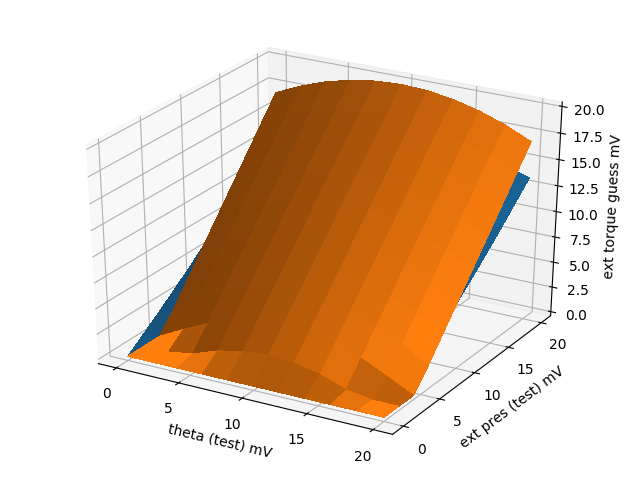
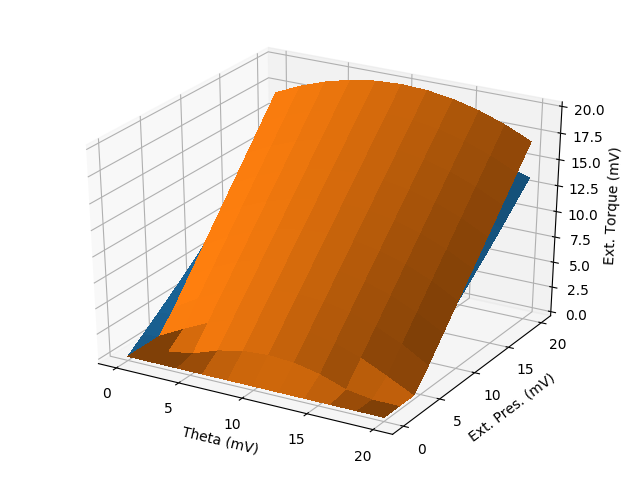
Rerun visualizations to properly/consistently resize images

diff --git a/writeup/chapters/results.tex b/writeup/chapters/results.tex
@@ -129,21 +129,21 @@ Test results are generated based on data tools in \github{PuppyNeuronPlayground}
 
 \begin{figure}
 \centering
-\includegraphics[height=2.25in]{results/New_T2A}
+\includegraphics[height=3.5in]{results/New_T2A}
 \caption{Testing conversion from torque to acceleration with varying link inertia. Mean error is 0.6 mV}
 \label{fig:TestAccelInertia}
 \end{figure}
 
 \begin{figure}
 \centering
-\includegraphics[height=2.25in]{results/New_T2A_2} % TODO(buckbaskin): complete this thought with a picture and data
+\includegraphics[height=3.5in]{results/New_T2A_2} % TODO(buckbaskin): complete this thought with a picture and data
 \caption{Testing conversion from torque to acceleration, with varying joint damping. Mean error is 0.7 mV}
 \label{fig:TestAccelDamping}
 \end{figure}
 
 \begin{figure}
 \centering
-\includegraphics[height=2.25in]{results/New_P2T} % TODO(buckbaskin): complete this thought with a picture and data
+\includegraphics[height=3.5in]{results/New_P2T} % TODO(buckbaskin): complete this thought with a picture and data
 \caption{Testing conversion from actuator pressure to torque. Mean error is 1.4 mV}
 \label{fig:TestP2T}
 \end{figure}
@@ -152,21 +152,21 @@ Test results are generated based on data tools in \github{PuppyNeuronPlayground}
 
 \begin{figure}
 \centering
-\includegraphics[height=2.25in]{results/New_TO}
+\includegraphics[height=3.5in]{results/New_TO}
 \caption{Estimating positive torque required to reach a desired position. Mean error is 0.3 mV}
 \label{fig:TestTorqueOptimizationPos}
 \end{figure}
 
 \begin{figure}
 \centering
-\includegraphics[height=2.25in]{results/New_TO_2}
+\includegraphics[height=3.5in]{results/New_TO_2}
 \caption{Testing negative torque required to reach a desired position. Mean error is 2.7 mV}
 \label{fig:TestTorqueOptimizationNeg}
 \end{figure}
 
 \begin{figure}
 \centering
-\includegraphics[height=2.25in]{results/New_T2P}
+\includegraphics[height=3.5in]{results/New_T2P}
 \caption{Estimated extension pressure from desired torque. Mean error is 1.6 mV}
 \label{fig:TestT2PPos}
 \end{figure}

diff --git a/multiviz/torque_optimization1.py b/multiviz/torque_optimization1.py
@@ -10,7 +10,7 @@ import numpy as np
 
 from mpl_toolkits.mplot3d import Axes3D
 from matplotlib import pyplot as plt
-plt.rc('font', **{'size': 12})
+# plt.rc('font', **{'size': 12})
 
 from pprint import pprint
 
@@ -604,7 +604,7 @@ if __name__ == '__main__':
         data[iteration, -1] = specific_output
         data_ref[iteration, -1] = reference_torque(input_combo, output_neuron)
 
-    fig = plt.figure(figsize=(4,3,), dpi=300)
+    fig = plt.figure()
     ax = fig.gca(projection='3d')
     X = data[:,0]
     X = X.reshape((input_length0, input_length1)) + 60

diff --git a/multiviz/torque_optimization2.py b/multiviz/torque_optimization2.py
@@ -10,7 +10,7 @@ import numpy as np
 
 from mpl_toolkits.mplot3d import Axes3D
 from matplotlib import pyplot as plt
-plt.rc('font', **{'size': 12})
+# plt.rc('font', **{'size': 12})
 
 from pprint import pprint
 
@@ -604,7 +604,7 @@ if __name__ == '__main__':
         data[iteration, -1] = specific_output
         data_ref[iteration, -1] = reference_torque(input_combo, output_neuron)
 
-    fig = plt.figure(figsize=(4,3,), dpi=300)
+    fig = plt.figure()
     ax = fig.gca(projection='3d')
     X = data[:,0]
     X = X.reshape((input_length0, input_length1)) + 60

diff --git a/multiviz/torque_to_acceleration1.py b/multiviz/torque_to_acceleration1.py
@@ -10,7 +10,7 @@ import numpy as np
 
 from mpl_toolkits.mplot3d import Axes3D
 from matplotlib import pyplot as plt
-plt.rc('font', **{'size': 12})
+# plt.rc('font', **{'size': 12})
 
 from pprint import pprint
 
@@ -530,7 +530,7 @@ if __name__ == '__main__':
         data[iteration, -1] = specific_output
         data_ref[iteration, -1] = reference_accel(input_combo, output_neuron)
 
-    fig = plt.figure(figsize=(4,3,), dpi=300)
+    fig = plt.figure()
     ax = fig.gca(projection='3d')
     X = data[:,0]
     X = X.reshape((input_length0, input_length1)) + 60

diff --git a/multiviz/torque_to_acceleration2.py b/multiviz/torque_to_acceleration2.py
@@ -10,7 +10,7 @@ import numpy as np
 
 from mpl_toolkits.mplot3d import Axes3D
 from matplotlib import pyplot as plt
-plt.rc('font', **{'size': 12})
+# plt.rc('font', **{'size': 12})
 
 from pprint import pprint
 
@@ -531,7 +531,7 @@ if __name__ == '__main__':
         data[iteration, -1] = specific_output
         data_ref[iteration, -1] = reference_accel(input_combo, output_neuron)
 
-    fig = plt.figure(figsize=(4,3,), dpi=300)
+    fig = plt.figure()
     ax = fig.gca(projection='3d')
     X = data[:,0]
     X = X.reshape((input_length0, input_length1)) + 60

diff --git a/multiviz/pressure_to_torque.py b/multiviz/pressure_to_torque.py
@@ -457,9 +457,9 @@ if __name__ == '__main__':
 
     surf = ax.plot_surface(X, Y, Z, linewidth=0, antialiased=False, label='Neuron')
     surf2 = ax.plot_surface(X, Y, Z_ref, linewidth=0, antialiased=False)
-    ax.set_xlabel(input0 + ' mV')
-    ax.set_ylabel(input1 + ' mV')
-    ax.set_zlabel(output_neuron + ' mV')
+    ax.set_xlabel('Theta (mV)')
+    ax.set_ylabel('Ext. Pres. (mV)')
+    ax.set_zlabel('Ext. Torque (mV)')
     ticks = np.linspace(0, 20, 5)
     ax.set_xticks(ticks)
     ax.set_yticks(ticks)

diff --git a/multiviz/torque_to_pressure.py b/multiviz/torque_to_pressure.py
@@ -10,7 +10,7 @@ import numpy as np
 
 from mpl_toolkits.mplot3d import Axes3D
 from matplotlib import pyplot as plt
-plt.rc('font', **{'size': 12})
+# plt.rc('font', **{'size': 12})
 
 from pprint import pprint
 
